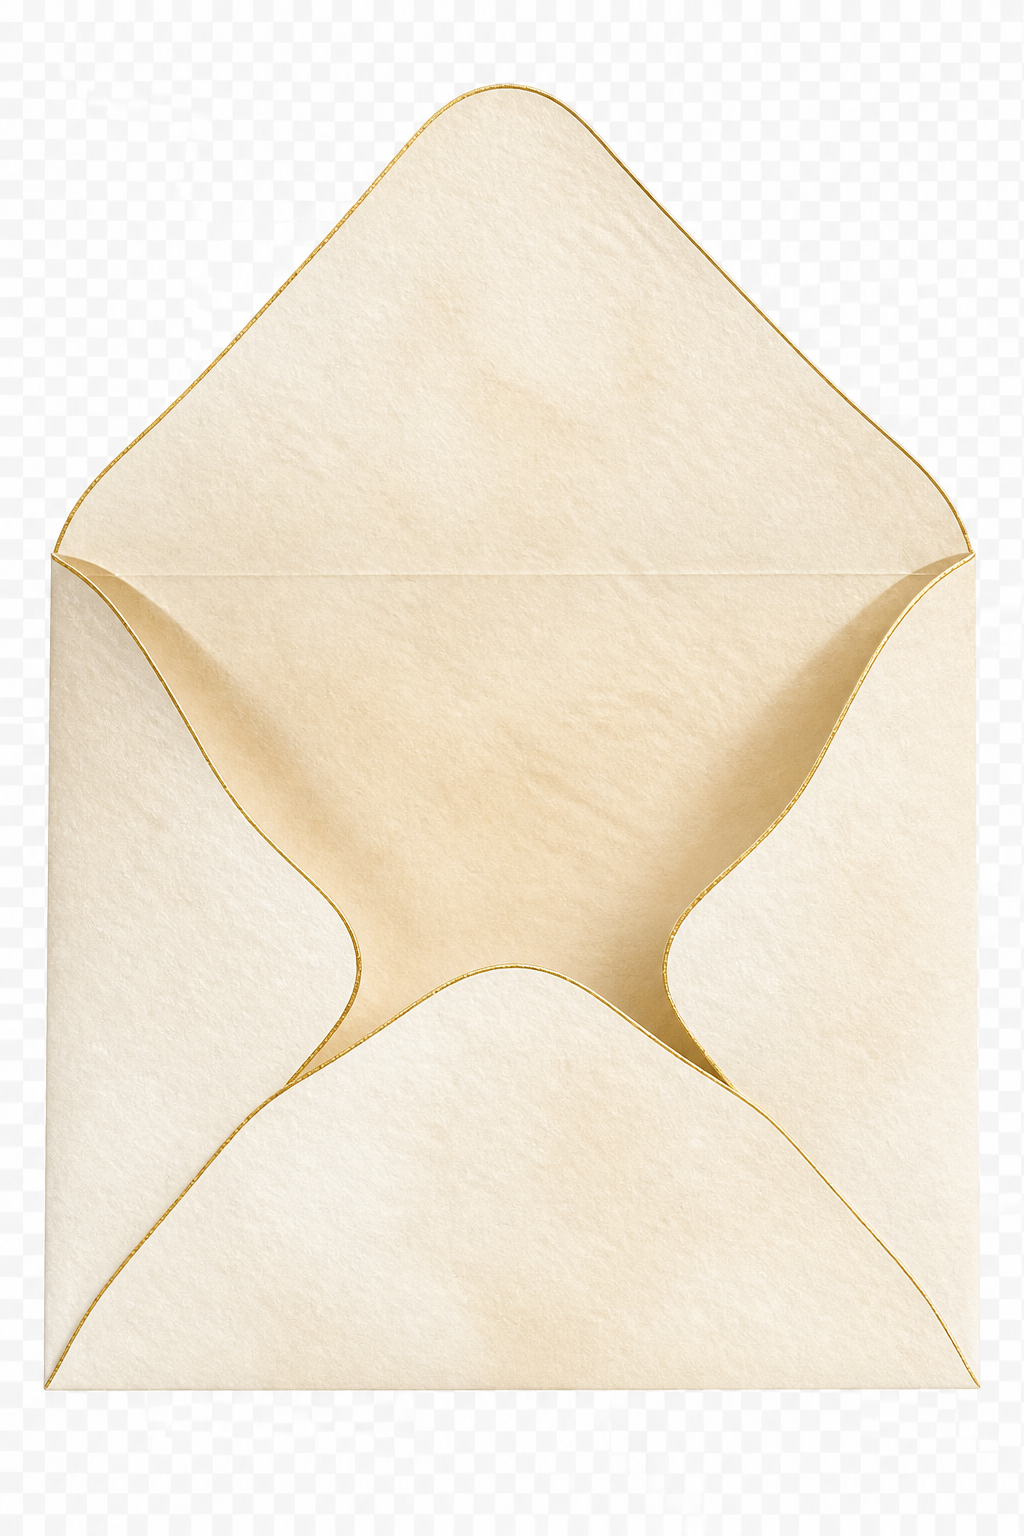
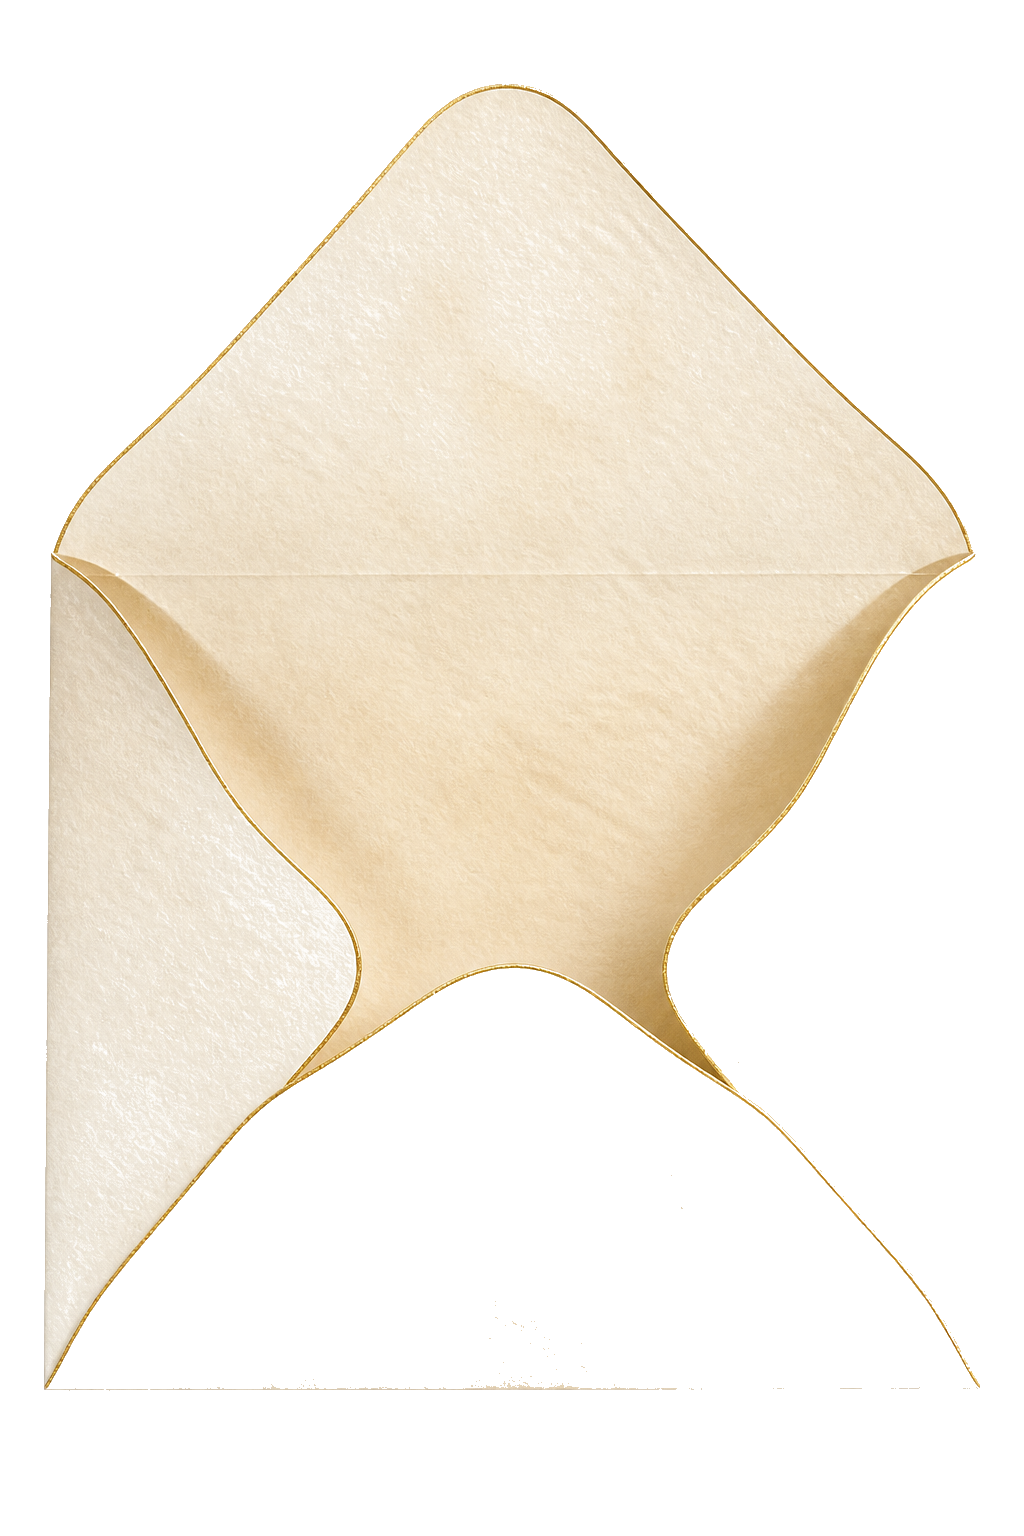
Remove white plate behind gift envelope and use a landscape gift card.

Changed region(s): [[0.0312, 0.3438, 0.9688, 0.9062]]

diff --git a/src/app/globals.css b/src/app/globals.css
@@ -971,38 +971,32 @@
     transform: scale(0.96);
   }
 
-  /* ── Gift registry: clean stage, tall letter card ── */
+  /* ── Gift registry: no plate behind envelope, landscape card ── */
   .gift-section {
     overflow: hidden;
-    background: #f3ebe0;
+    background: #faf7f2;
   }
 
   .gift-section-inner {
-    background: #f3ebe0;
+    background: transparent;
   }
 
   .gift-registry {
-    width: min(100%, 21rem);
+    width: min(100%, 24rem);
     margin-inline: auto;
   }
 
   .gift-registry-stage {
     position: relative;
     width: 100%;
-    /* Room for tall letter rising from the envelope */
-    min-height: 36rem;
-    padding-top: 0.5rem;
-    padding-bottom: 1rem;
+    aspect-ratio: 3 / 4.15;
+    max-height: min(78dvh, 38rem);
   }
 
   .gift-registry-envelope {
     position: absolute;
-    left: 50%;
-    bottom: 0;
-    z-index: 2;
-    width: 100%;
-    aspect-ratio: 3 / 4;
-    translate: -50% 0;
+    inset: 0;
+    z-index: 1;
     pointer-events: none;
   }
 
@@ -1019,33 +1013,33 @@
     width: 100%;
     height: 100%;
     object-fit: contain;
-    object-position: center bottom;
-    filter: drop-shadow(0 16px 26px rgba(42, 34, 24, 0.14));
+    object-position: center;
+    /* Soft shadow only on the envelope shape (alpha) */
+    filter: drop-shadow(0 18px 28px rgba(42, 34, 24, 0.16));
   }
 
-  /* Tall rectangle letter — all gift copy fits on one card */
+  /* Wide horizontal gift card nestled in the envelope opening */
   .gift-registry-card {
-    position: relative;
+    position: absolute;
+    left: 50%;
+    top: 18%;
     z-index: 3;
-    width: min(72%, 14.5rem);
-    margin: 0 auto 7.5rem;
-    min-height: 22rem;
+    width: min(78%, 18.5rem);
+    translate: -50% 0;
     overflow: hidden;
-    border-radius: 0.35rem;
+    border-radius: 0.4rem;
     background-color: #1a2332;
     background-size: cover;
     background-position: center;
-    box-shadow: 0 14px 30px rgba(20, 24, 32, 0.28);
+    box-shadow: 0 12px 28px rgba(20, 24, 32, 0.28);
     transition:
-      min-height 0.55s cubic-bezier(0.22, 1, 0.36, 1),
-      margin-bottom 0.55s cubic-bezier(0.22, 1, 0.36, 1),
-      transform 0.55s cubic-bezier(0.22, 1, 0.36, 1);
+      top 0.55s cubic-bezier(0.22, 1, 0.36, 1),
+      width 0.55s cubic-bezier(0.22, 1, 0.36, 1);
   }
 
   .gift-registry.is-revealed .gift-registry-card {
-    min-height: 27rem;
-    margin-bottom: 5.5rem;
-    transform: translateY(-0.35rem);
+    top: 12%;
+    width: min(82%, 19.5rem);
   }
 
   .gift-registry-card-shade {
@@ -1053,8 +1047,8 @@
     inset: 0;
     background: linear-gradient(
       180deg,
-      rgba(12, 16, 22, 0.28) 0%,
-      rgba(12, 16, 22, 0.82) 100%
+      rgba(12, 16, 22, 0.3) 0%,
+      rgba(12, 16, 22, 0.8) 100%
     );
   }
 
@@ -1062,30 +1056,30 @@
     position: relative;
     z-index: 2;
     display: flex;
-    min-height: inherit;
     flex-direction: column;
     align-items: center;
-    justify-content: flex-start;
-    padding: 1.35rem 1.05rem 1.25rem;
+    justify-content: center;
+    padding: 1.05rem 1.25rem 1.1rem;
     text-align: center;
     color: #fff;
   }
 
   .gift-registry-title {
     font-family: var(--font-great-vibes), cursive;
-    font-size: clamp(2.4rem, 9vw, 3rem);
+    font-size: clamp(2.1rem, 8vw, 2.75rem);
     font-weight: 400;
     line-height: 1;
     color: #fff;
   }
 
   .gift-registry-message {
-    margin-top: 0.85rem;
+    margin-top: 0.55rem;
     width: 100%;
+    max-width: 17rem;
     font-family: var(--font-cormorant), serif;
-    font-size: clamp(0.78rem, 2.7vw, 0.88rem);
+    font-size: clamp(0.72rem, 2.4vw, 0.84rem);
     font-weight: 400;
-    line-height: 1.55;
+    line-height: 1.45;
     color: rgba(255, 255, 255, 0.92);
     white-space: pre-line;
   }
@@ -1094,12 +1088,12 @@
     display: inline-flex;
     align-items: center;
     gap: 0.4rem;
-    margin-top: 1.1rem;
+    margin-top: 0.85rem;
     border-radius: 0.3rem;
     border: 1px solid rgba(255, 255, 255, 0.1);
     background: linear-gradient(180deg, #6a5e52 0%, #4a423a 100%);
-    padding: 0.58rem 1.15rem;
-    font-size: 0.58rem;
+    padding: 0.52rem 1.1rem;
+    font-size: 0.56rem;
     font-weight: 700;
     letter-spacing: 0.18em;
     text-transform: uppercase;
@@ -1119,7 +1113,6 @@
     transform: translateY(0) scale(0.98);
   }
 
-  /* Bank details expand inside the same tall card */
   .gift-bank-panel {
     width: 100%;
     max-height: 0;
@@ -1133,24 +1126,36 @@
   }
 
   .gift-registry.is-revealed .gift-bank-panel {
-    max-height: 20rem;
-    margin-top: 1rem;
+    max-height: 14rem;
+    margin-top: 0.85rem;
     opacity: 1;
   }
 
   .gift-bank-block {
+    display: grid;
+    grid-template-columns: 1fr auto;
+    grid-template-areas:
+      "bank copy"
+      "number copy"
+      "name copy";
+    column-gap: 0.75rem;
+    row-gap: 0.15rem;
+    align-items: center;
     border-radius: 0.35rem;
     background: rgba(255, 248, 238, 0.96);
-    padding: 0.85rem 0.7rem 0.8rem;
+    padding: 0.7rem 0.75rem;
+    text-align: left;
     color: #1a2332;
   }
 
   .gift-bank-rule {
-    height: 0.55rem;
+    grid-column: 1 / -1;
+    height: 0.45rem;
   }
 
   .gift-bank-logo {
-    font-size: 0.9rem;
+    grid-area: bank;
+    font-size: 0.82rem;
     font-weight: 800;
     letter-spacing: 0.08em;
     color: #0056a4;
@@ -1158,33 +1163,34 @@
   }
 
   .gift-bank-number {
-    margin-top: 0.45rem;
+    grid-area: number;
     font-family: ui-monospace, SFMono-Regular, Menlo, Monaco, Consolas, monospace;
-    font-size: 0.9rem;
+    font-size: 0.82rem;
     font-weight: 500;
-    letter-spacing: 0.08em;
+    letter-spacing: 0.06em;
     color: #2a2430;
     word-break: break-all;
   }
 
   .gift-bank-name {
-    margin-top: 0.2rem;
+    grid-area: name;
     font-family: var(--font-cormorant), serif;
-    font-size: 0.95rem;
+    font-size: 0.88rem;
     color: #5a534a;
   }
 
   .gift-bank-copy {
+    grid-area: copy;
     display: inline-flex;
     align-items: center;
     justify-content: center;
     gap: 0.3rem;
-    margin-top: 0.65rem;
-    min-width: 4.25rem;
+    align-self: center;
+    min-width: 3.75rem;
     border-radius: 0.25rem;
     background: linear-gradient(180deg, #5c5248 0%, #4a423a 100%);
-    padding: 0.38rem 0.85rem;
-    font-size: 0.55rem;
+    padding: 0.42rem 0.7rem;
+    font-size: 0.52rem;
     font-weight: 700;
     letter-spacing: 0.14em;
     text-transform: uppercase;
@@ -1203,19 +1209,23 @@
   }
 
   @media (min-width: 480px) {
-    .gift-registry-stage {
-      min-height: 38rem;
-    }
-
     .gift-registry-card {
-      width: min(70%, 15rem);
-      min-height: 23.5rem;
-      margin-bottom: 8rem;
+      width: min(76%, 20rem);
+      top: 19%;
     }
 
     .gift-registry.is-revealed .gift-registry-card {
-      min-height: 28.5rem;
-      margin-bottom: 6rem;
+      width: min(80%, 21rem);
+      top: 13%;
+    }
+
+    .gift-registry-card-content {
+      padding: 1.15rem 1.45rem 1.2rem;
+    }
+
+    .gift-registry-message {
+      font-size: 0.86rem;
+      max-width: 18.5rem;
     }
   }
 

diff --git a/src/components/invitation/sections/GiftSection.tsx b/src/components/invitation/sections/GiftSection.tsx
@@ -32,16 +32,15 @@ export default function GiftSection({
 
   return (
     <section id="gift" className="gift-section invitation-section relative">
-      <div className="gift-section-inner relative mx-auto flex min-h-[100dvh] w-full max-w-md flex-col items-center justify-center px-5 py-16 sm:max-w-lg sm:px-8 sm:py-20">
+      <div className="gift-section-inner relative mx-auto flex min-h-[100dvh] w-full max-w-lg flex-col items-center justify-center px-4 py-16 sm:px-6 sm:py-20">
         <Reveal direction="up" className="w-full">
           <div className={`gift-registry ${revealed ? "is-revealed" : ""}`}>
             <div className="gift-registry-stage">
-              {/* Envelope only — nothing else behind it */}
               <div className="gift-registry-envelope">
                 <GiftEnvelopeArt />
               </div>
 
-              {/* One tall rectangular letter so all copy fits */}
+              {/* Landscape gift card — wide rectangle */}
               <div
                 className="gift-registry-card"
                 style={
